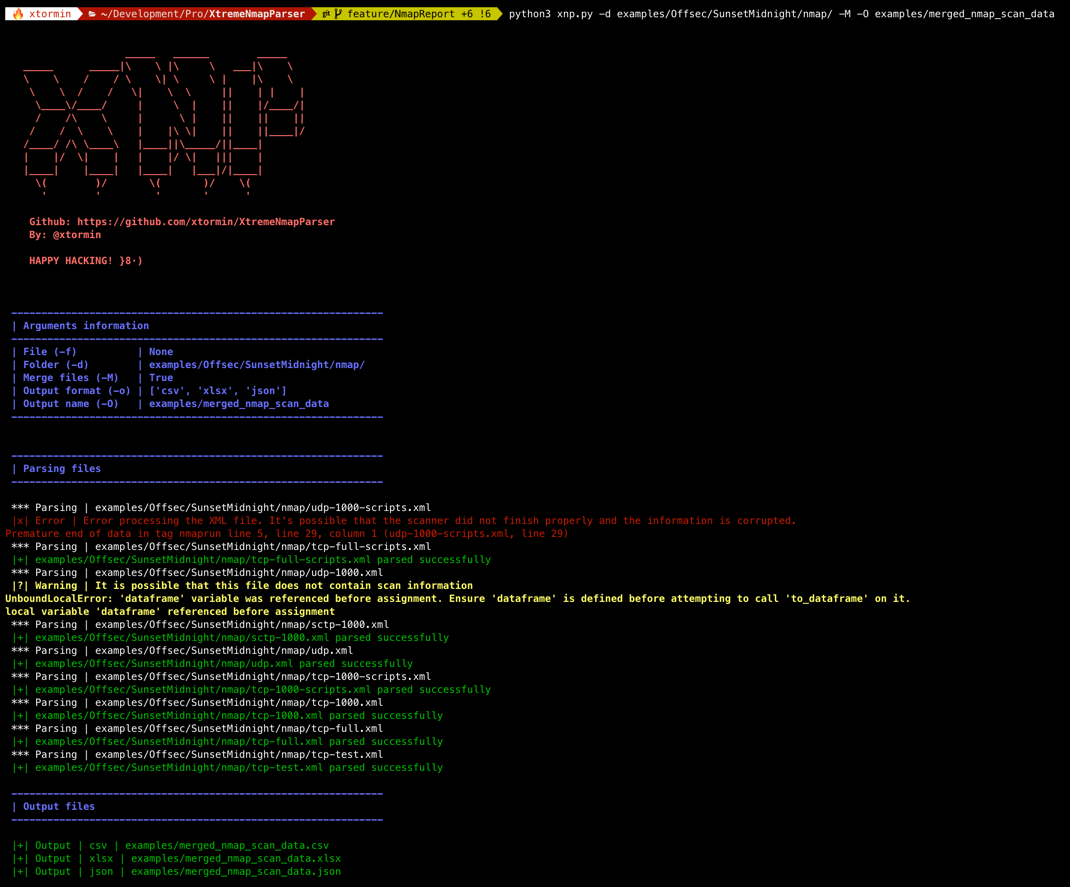
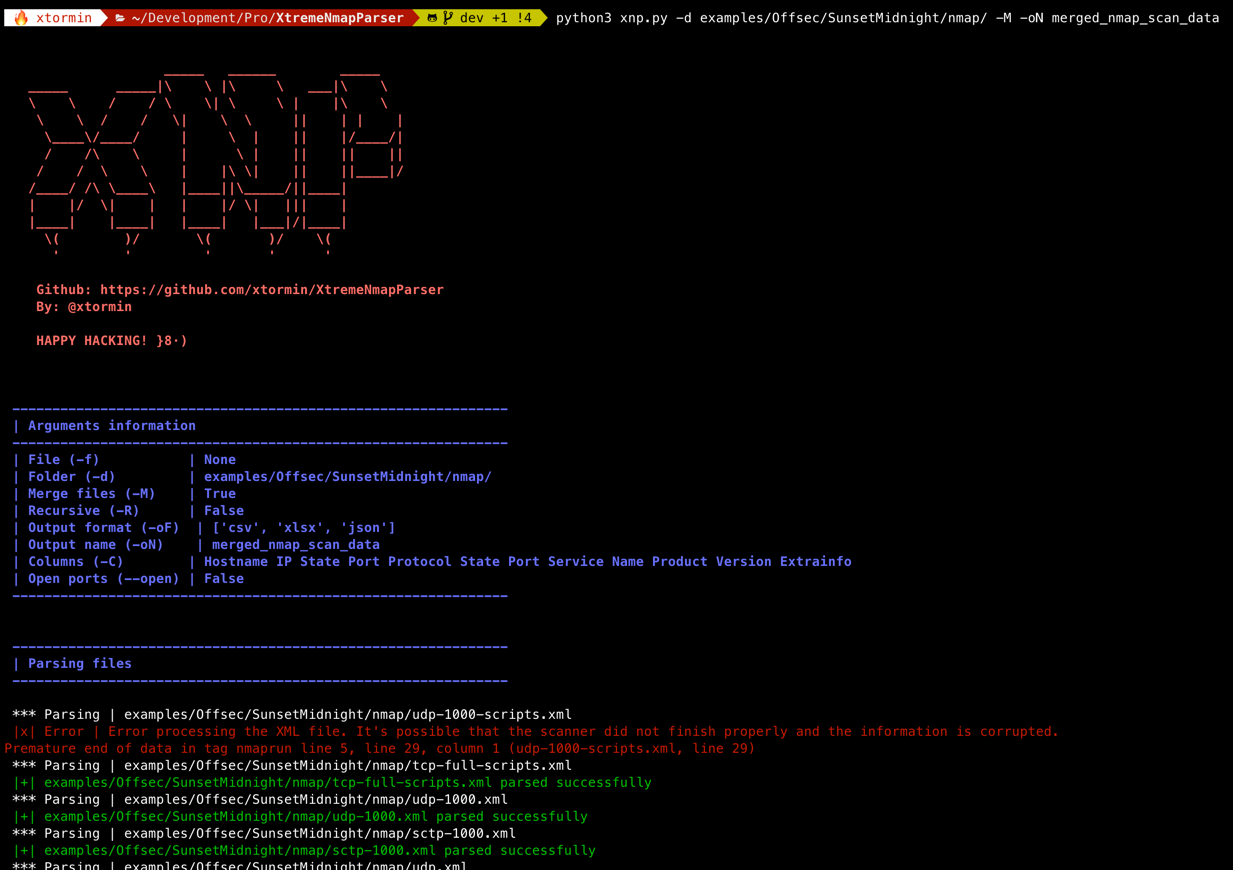
Change arguments format

diff --git a/app/utils/cli.py b/app/utils/cli.py
@@ -7,20 +7,20 @@ parser = argparse.ArgumentParser(
     add_help=True,
     description='%(prog)s parse the output information from an nmap XML file')
 
-parser.add_argument('-f', '--nmapxmlfile',
+parser.add_argument('-f', '--file',
                     help='Nmap XML file',
                     nargs='?',
                     type=str)
-parser.add_argument('-d', '--nmapxmldir',
+parser.add_argument('-d', '--directory',
                     help='Directory with nmap XML files',
                     nargs='?',
                     type=str)
-parser.add_argument('-o', '--outputformat',
+parser.add_argument('-oF', '--outputformat',
                     help='Output file format [csv, xlsx, json].',
                     nargs='?',
                     type=str,
                     default="csv,xlsx,json")
-parser.add_argument('-O', '--outputname',
+parser.add_argument('-oN', '--outputname',
                     help='Output file name.',
                     nargs='?',
                     type=str)

diff --git a/app/utils/banner.py b/app/utils/banner.py
@@ -34,8 +34,8 @@ def print_arguments_info(single_xml, folder_multiple_xml, list_output_format, fi
  | Folder (-d)         | {folder_multiple_xml}  
  | Merge files (-M)    | {merger}  
  | Recursive (-R)      | {recursive}  
- | Output format (-o)  | {list_output_format}  
- | Output name (-O)    | {file_output_name}
+ | Output format (-oF)  | {list_output_format}  
+ | Output name (-oN)    | {file_output_name}
  | Columns (-C)        | {df_columns}
  | Open ports (--open) | {only_open_ports}
  --------------------------------------------------------------  

diff --git a/app/app.py b/app/app.py
@@ -67,8 +67,8 @@ def run():
     # Arguments
     try:
         args = cli.get()
-        single_xml = args.nmapxmlfile
-        folder_multiple_xml = func.add_slash_if_needed(args.nmapxmldir) if args.nmapxmldir else None
+        single_xml = args.file
+        folder_multiple_xml = func.add_slash_if_needed(args.directory) if args.directory else None
         list_output_format = (args.outputformat).split(",")
         file_output_name = args.outputname
         merger = args.merger
